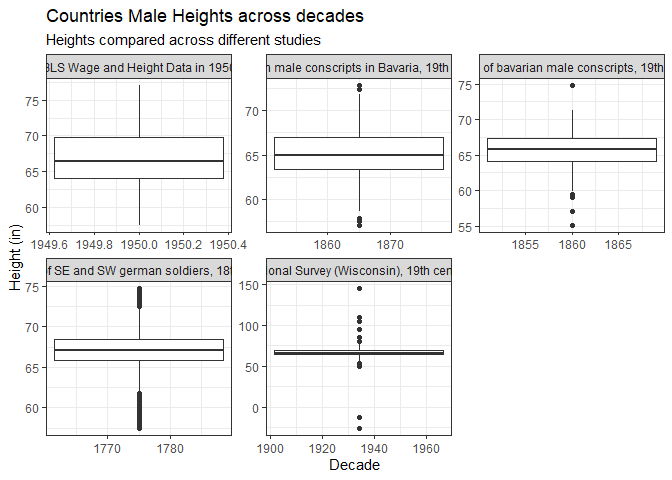
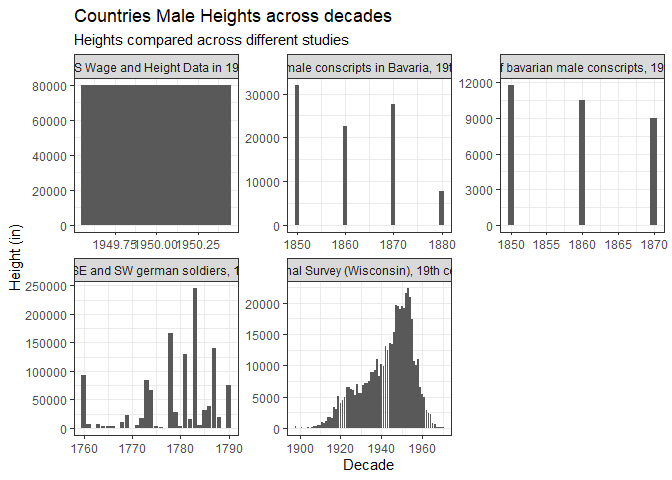
issues fixed

diff --git a/Week7/CaseStudy7/cleanYourData.html b/Week7/CaseStudy7/cleanYourData.html
@@ -204,14 +204,12 @@ ggplot(worlddata, aes(x = year_decade, y = height.in)) +
 ## 5       1916     -66.0       -26 National Survey (Wisconsin), 19th century
 ## 6       1917     175.         69 National Survey (Wisconsin), 19th century</code></pre>
 <pre class="r"><code>ggplot(charty, aes(x = birth_year, y = height.in)) +
-  geom_boxplot() +
+  geom_col() +
   facet_wrap(~study_id, scales = &#39;free&#39;) +
   labs(x = &#39;Decade&#39;, y = &#39;Height (in)&#39;, title = &#39;Countries Male Heights across decades&#39;, subtitle = &#39;Heights compared across different studies&#39;) +
   theme_bw()</code></pre>
-<pre><code>## Warning: Continuous x aesthetic -- did you forget aes(group=...)?</code></pre>
-<pre><code>## Warning: Removed 12 rows containing missing values (stat_boxplot).</code></pre>
-<pre><code>## Warning: Removed 9 rows containing non-finite values (stat_boxplot).</code></pre>
[1 lines of base64/hex data omitted]
+<pre><code>## Warning: Removed 21 rows containing missing values (position_stack).</code></pre>
[1 lines of base64/hex data omitted]
 
 
 

diff --git a/Week7/CaseStudy7/cleanYourData.md b/Week7/CaseStudy7/cleanYourData.md
@@ -61,22 +61,14 @@ tail(charty)
 
 ```r
 ggplot(charty, aes(x = birth_year, y = height.in)) +
-  geom_boxplot() +
+  geom_col() +
   facet_wrap(~study_id, scales = 'free') +
   labs(x = 'Decade', y = 'Height (in)', title = 'Countries Male Heights across decades', subtitle = 'Heights compared across different studies') +
   theme_bw()
 ```
 
 ```
-## Warning: Continuous x aesthetic -- did you forget aes(group=...)?
-```
-
-```
-## Warning: Removed 12 rows containing missing values (stat_boxplot).
-```
-
-```
-## Warning: Removed 9 rows containing non-finite values (stat_boxplot).
+## Warning: Removed 21 rows containing missing values (position_stack).
 ```
 
 ![](cleanYourData_files/figure-html/Heights across studies-1.png)<!-- -->
